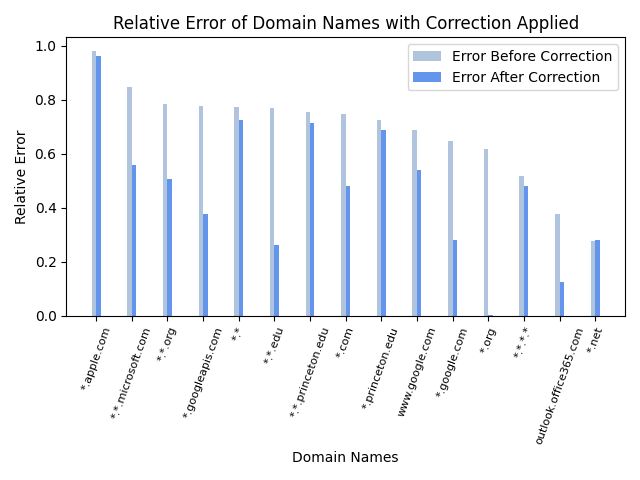
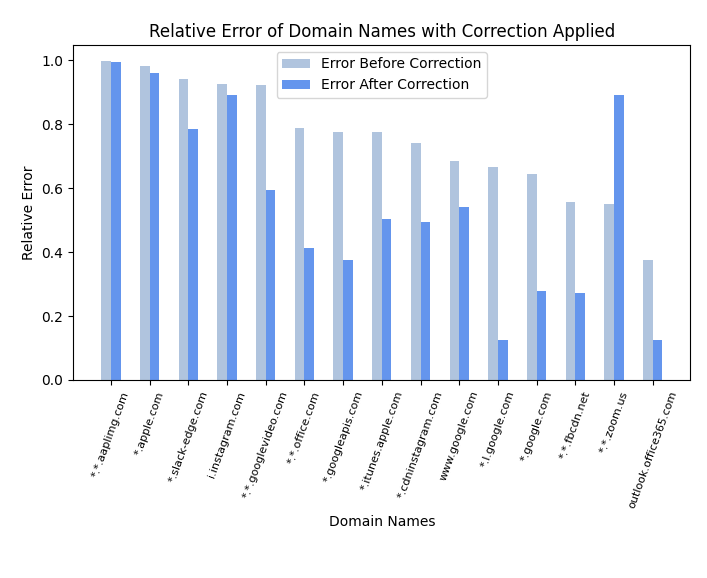
asdf

diff --git a/DNS_Netassay/PaperResults/08_19_2020_T08-11/sim_v3/combined_sim_v3_15min.py b/DNS_Netassay/PaperResults/08_19_2020_T08-11/sim_v3/combined_sim_v3_15min.py
@@ -236,25 +236,25 @@ def matchDomain(known, domain):
 
 # parse the command line argument and open the file specified
 if __name__ == '__main__':
-    if len(argv) != 4:
+    if len(argv) != 5:
         print('usage: python netassay_python3_p4sim.py knownlist.txt allowed_dns_dst.txt banned_dns_dst.txt')
         exit(-1)
     
     # Parse allowed IP and banned IP files
-    allowed_ip_file = open(argv[2], 'r')
+    allowed_ip_file = open(argv[3], 'r')
     allowed_ip_list = allowed_ip_file.read().split()
     allowed_ip_file.close()
     for ip in allowed_ip_list:
         allowed_ips.append(ipaddress.ip_network(ip))
 
-    banned_ip_file = open(argv[3], 'r')
+    banned_ip_file = open(argv[4], 'r')
     banned_ip_list = banned_ip_file.read().split()
     banned_ip_file.close()
     for ip in banned_ip_list:
         banned_ips.append(ipaddress.ip_network(ip))
 
     # Create knownlist
-    knownlist = open(argv[1], 'r')
+    knownlist = open(argv[2], 'r')
     known_domains = knownlist.read().split()
     knownlist.close()
 
@@ -284,45 +284,38 @@ if __name__ == '__main__':
         netassayTables_stages[i] = usedHash_individual_run
         usedHashes[i] = netTable_individual
 
+    f = open(argv[1], 'rb')
+    pcap_obj = pickle.load(f)
+    f.close()
 
-    for pcap_count in range(0, 155):
-        print('PCAP_COUNT', pcap_count)
+    num_packets = len(pcap_obj)
+    packet_count = 0.0
 
-        if pcap_count < 69:
-            f = open('/u/jjk7/mnt/08_19_2020_T08-11_processed/pcap'+str(pcap_count), 'rb')
+    for p in pcap_obj:
+        TOTAL_PACKETS += 1
+        ts = p[0]
+        dns_code = p[1]
+        ip = p[2]
+
+        # For each packet parse the dns responses
+        if (dns_code == -1):
+            TOTAL_DNS += 1
+            #try:
+            try:
+                parse_dns_response(ip, ts)
+            except Exception as e:
+                print(e)
+                continue
         else:
-            f = open('/u/jjk7/mnt/anonflow/netassay_output/pcap'+str(pcap_count), 'rb')
-        pcap_obj = pickle.load(f)
-        f.close()
+            try:
+                parse_tcp(dns_code, ip, ts)
+            except Exception as e:
+                print(e)
+                continue
 
-        num_packets = len(pcap_obj)
-        packet_count = 0.0
-
-        for p in pcap_obj:
-            TOTAL_PACKETS += 1
-            ts = p[0]
-            dns_code = p[1]
-            ip = p[2]
-
-            # For each packet parse the dns responses
-            if (dns_code == -1):
-                TOTAL_DNS += 1
-                #try:
-                try:
-                    parse_dns_response(ip, ts)
-                except Exception as e:
-                    print(e)
-                    continue
-            else:
-                try:
-                    parse_tcp(dns_code, ip, ts)
-                except Exception as e:
-                    print(e)
-                    continue
-
-            packet_count += 1
-            #if (packet_count % 100000 == 0):
-             #   print(packet_count / num_packets)
+        packet_count += 1
+        #if (packet_count % 100000 == 0):
+            #   print(packet_count / num_packets)
         
 
     print('TOTAL PACKETS', TOTAL_PACKETS)

diff --git a/DNS_Netassay/PaperResults/stages/timeout_withmem.py b/DNS_Netassay/PaperResults/stages/timeout_withmem.py
@@ -7,9 +7,10 @@ import csv
 
 dns_60_total = 0
 packets_60_total = 0
-bytes_60_total = 0 # key thing is here
+bytes_60_total = 0
 
 with open('parse_limit60_3hr.csv') as csvfile:
+#with open('unlimited0000.csv') as csvfile:
     reader = csv.reader(csvfile)
     for row in reader:
         if row[0] == 'Domain':
@@ -18,58 +19,43 @@ with open('parse_limit60_3hr.csv') as csvfile:
         packets_60_total += float(row[3])
         bytes_60_total += float(row[4])
 
-f = open('stage_limits_3hr.txt', 'r')
-by_stage = f.read().split('*')
+f = open('timeout_limits_withmem.txt', 'r')
+#f = open('timeout_limits.txt', 'r')
+rows = f.read().split('\n')
 
+packets_arr = []
+bytes_arr = []
+timeoutList = []
 
-stage_arrs = [[],[],[],[],[],[],[],[],[],[]]
-memoryList = []
+count = 0
+for r in rows:
+    timeoutList.append(count)
+    values = r.split(',')
+    packets_arr.append(1 - float(values[1]) / packets_60_total)
+    bytes_arr.append(1 - float(values[2]) / bytes_60_total)
+    # count += 10 change for real
+    count += 50
 
-for i in range(len(by_stage)):
-    rows = by_stage[i].split()
-
-    count = 0
-    for r in rows:
-        if i == 0:
-            memoryList.append(count)
-        values = r.split(',')
-        stage_arrs[i].append(1 - float(values[2]) / bytes_60_total)
-        count += 2
-
+f.close()
 
 fig, ax = plt.subplots()
 
-width = 0.25
+line3, = ax.plot(timeoutList, bytes_arr, 'b--')
+line3.set_label('Bytes')
 
-selectedIndicies = [4,5,6,7,8,9]
-stage_1 = [stage_arrs[0][i] for i in selectedIndicies]
-stage_2 = [stage_arrs[1][i] for i in selectedIndicies]
-stage_4 = [stage_arrs[2][i] for i in selectedIndicies]
-stage_8 = [stage_arrs[3][i] for i in selectedIndicies]
-memoryList = [memoryList[i] for i in selectedIndicies]
-memoryList = np.array(memoryList)
+line2, = ax.plot(timeoutList, packets_arr, 'b:')
+line2.set_label('Packets')
 
-plt.bar(memoryList, stage_1, label='1 Stage', width=0.25, color='lightsteelblue')
-plt.bar(memoryList+width, stage_2, label='2 Stage', width=0.25, color='cornflowerblue')
-plt.bar(memoryList+2*width, stage_4, label='4 Stage', width=0.25, color='royalblue')
-plt.bar(memoryList+3*width, stage_8, label='8 Stage', width=0.25, color='navy')
-
-'''line9, = ax.plot(memoryList, stage_arrs[8])
-line9.set_label('9 Stages')
-
-line10, = ax.plot(memoryList, stage_arrs[9])
-line10.set_label('10 Stages')'''
-
-#plt.axvline(x=65536, color='red')
+plt.axvline(x=100, color='red')
+plt.xlim([0, 600])
 
 ax.legend()
 
-plt.xticks(memoryList+1.5*width, memoryList)
 
-ax.set(xlabel='Memory Length', ylabel='Ratio of Traffic Lost', title='Ratio of Traffic Lost Due to Memory Size Limitations')
+ax.set(xlabel='Timemout (s)', ylabel='Ratio of Traffic Lost', title='Ratio of Traffic Lost Due to Timeout')
+#ax.set_yscale('log', base=10)
 ax.grid()
-#ax.set_xscale('log', base=2)
-fig.savefig("stage_limit_3hr_bar.png")
+fig.savefig("timeout_limit_withmem.png")
 
 plt.show()
 #scatter_compare(python_byt, p4_byt)

diff --git a/DNS_Netassay/PaperResults/stages/Relative_error/comp_bar.py b/DNS_Netassay/PaperResults/stages/Relative_error/comp_bar.py
@@ -34,7 +34,7 @@ with open('parse_limit60_3hr.csv') as csvfile:
 domains_final = []
 bytes_true_final = []
 dns_true_final = []
-with open('./08_19_2020_T08-11/stage_limit2_16.csv') as csvfile:
+with open('./08_19_2020_T08-11/stage_limit2_10.csv') as csvfile:
     reader = csv.reader(csvfile)
     for row in reader:
         #if row[0] == 'Domain':
@@ -57,7 +57,7 @@ bytes_true = np.array(bytes_true_final)
 error_before = np.array(error_before)
 error_after = np.array(error_after)
 
-idx = np.argsort(dns_true)
+idx = np.argsort(bytes_true)
 domain_names = domain_names[idx]
 bytes_true = bytes_true[idx]
 error_before = error_before[idx]
@@ -80,7 +80,7 @@ xAxis = 2 * np.arange(0, len(domain_names))
 
 fig, ax = plt.subplots()
 
-width = 0.25
+width = 0.5
 
 '''selectedIndicies = [6,7,8,9,10]
 stage_1 = [stage_arrs[0][i] for i in selectedIndicies]
@@ -90,8 +90,8 @@ stage_8 = [stage_arrs[3][i] for i in selectedIndicies]
 memoryList = [memoryList[i] for i in selectedIndicies]
 memoryList = np.array(memoryList)'''
 
-plt.bar(xAxis-width, error_before, label='Error Before Correction', width=0.25, color='lightsteelblue')
-plt.bar(xAxis, error_after, label='Error After Correction', width=0.25, color='cornflowerblue')
+plt.bar(xAxis-width, error_before, label='Error Before Correction', width=0.5, color='lightsteelblue')
+plt.bar(xAxis, error_after, label='Error After Correction', width=0.5, color='cornflowerblue')
 
 '''line9, = ax.plot(memoryList, stage_arrs[8])
 line9.set_label('9 Stages')
@@ -110,7 +110,7 @@ ax.set(xlabel='Domain Names', ylabel='Relative Error', title='Relative Error of 
 #ax.set_xscale('log', base=2)
 
 plt.tight_layout()
-fig.savefig("comp_bar_3hr_2_16.png")
+fig.savefig("comp_bar_3hr_2_10.png")
 
 plt.show()
 #scatter_compare(python_byt, p4_byt)

diff --git a/DNS_Netassay/PaperResults/timeout/p4_graphs.py b/DNS_Netassay/PaperResults/timeout/p4_graphs.py
@@ -19,7 +19,7 @@ with open('parse_limit60_3hr.csv') as csvfile:
         packets_60_total += float(row[3])
         bytes_60_total += float(row[4])
 
-f = open('timeout_limits_3hr.txt', 'r')
+f = open('timeout_limits_3hr_3.txt', 'r')
 #f = open('timeout_limits.txt', 'r')
 rows = f.read().split('\n')
 
@@ -34,7 +34,24 @@ for r in rows:
     packets_arr.append(1 - float(values[1]) / packets_60_total)
     bytes_arr.append(1 - float(values[2]) / bytes_60_total)
     # count += 10 change for real
+    count += 10
+
+count += 20
+f.close()
+
+f = open('timeout_limits_3hr_3_2.txt', 'r')
+#f = open('timeout_limits.txt', 'r')
+rows = f.read().split('\n')
+
+for r in rows:
+    timeoutList.append(count)
+    values = r.split(',')
+    packets_arr.append(1 - float(values[1]) / packets_60_total)
+    bytes_arr.append(1 - float(values[2]) / bytes_60_total)
+    # count += 10 change for real
     count += 30
+
+f.close()
 
 
 fig, ax = plt.subplots()
@@ -54,7 +71,7 @@ ax.legend()
 ax.set(xlabel='Timemout (s)', ylabel='Ratio of Traffic Lost', title='Ratio of Traffic Lost Due to Timeout')
 #ax.set_yscale('log', base=10)
 ax.grid()
-fig.savefig("timeout_limit_3hr2.png")
+fig.savefig("timeout_limit_3hr3.png")
 
 plt.show()
 #scatter_compare(python_byt, p4_byt)
